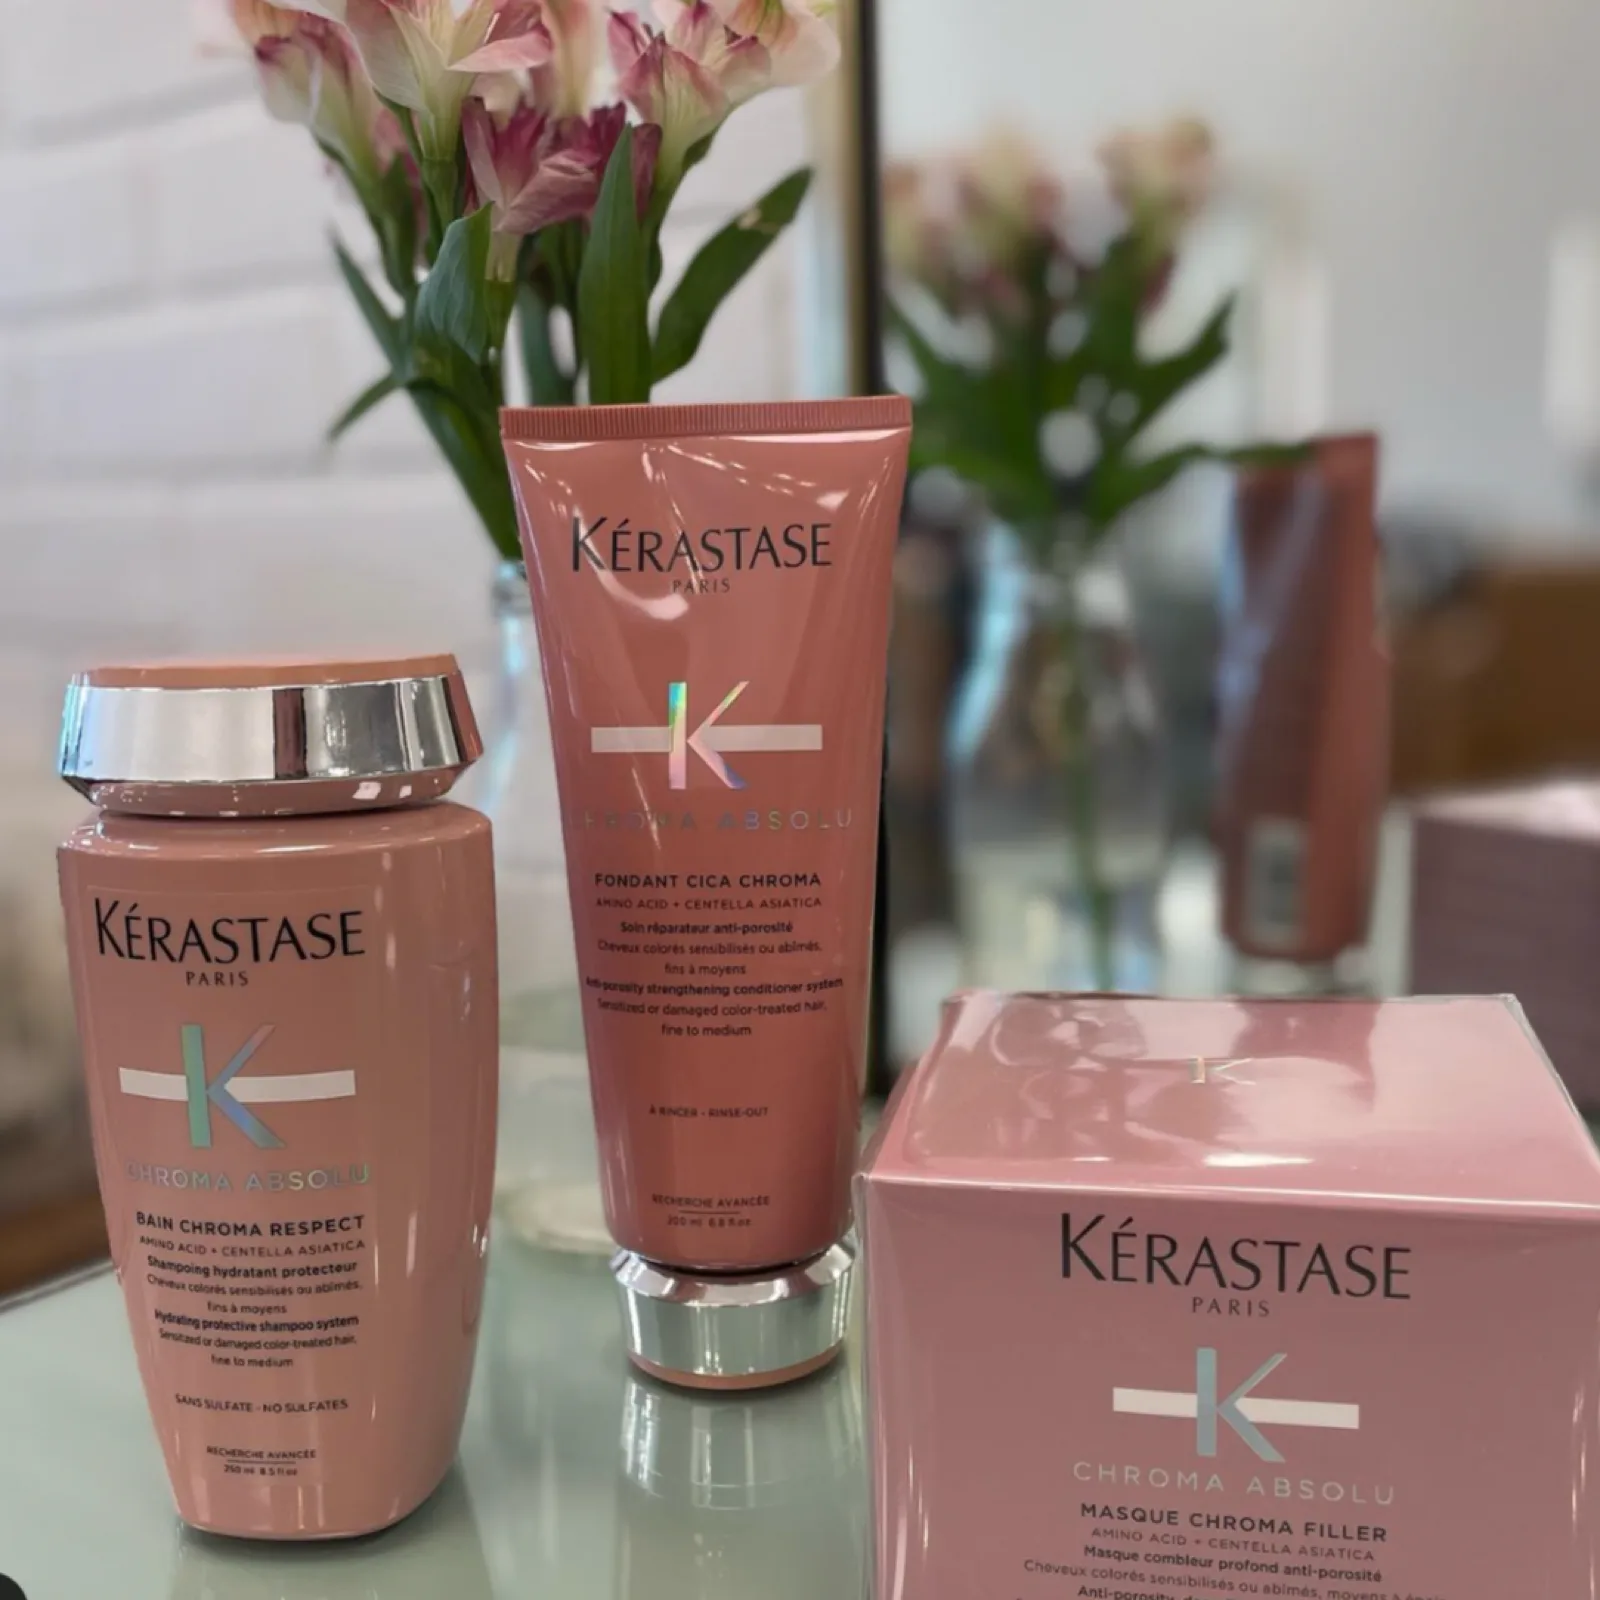
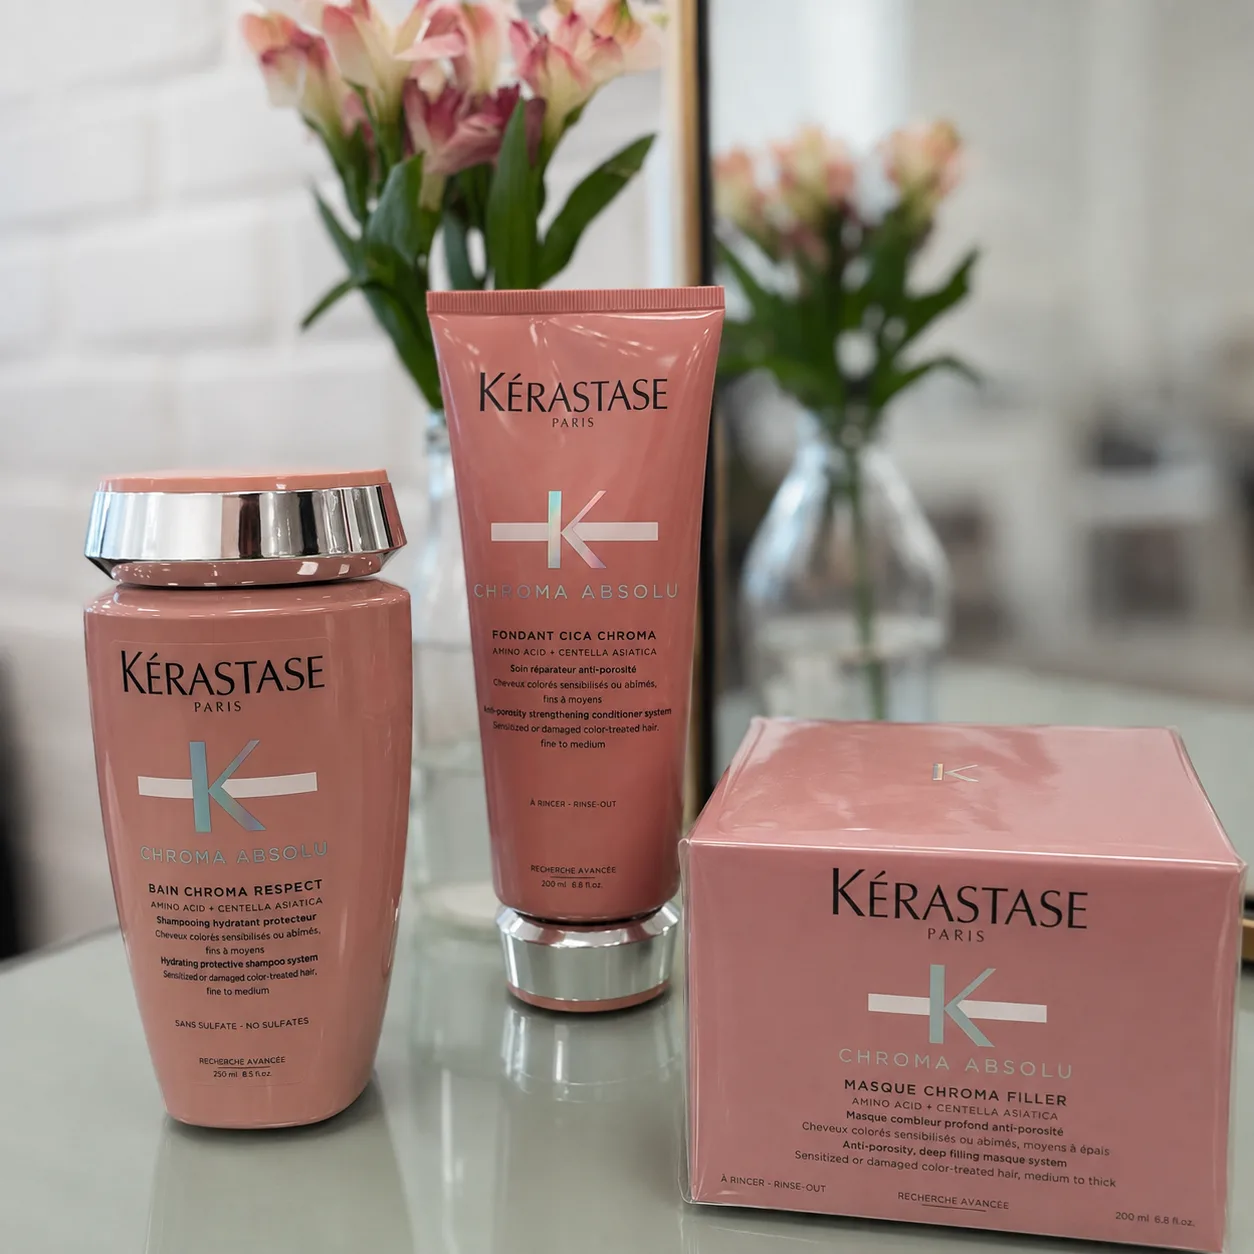
Reveal the philosophy line by line, drop the experience section, reshoot products
Three homepage changes.

The philosophy statement now reveals a line at a time as it is scrolled
to, instead of the whole block animating once on mount. Each line is its
own observed element with the trigger pulled 22% up from the bottom edge,
so the reader's scroll sets the pace rather than a fixed delay. The <br>
separators become block spans; line spacing is unchanged (81px steps
against an 80.92px line-height) and the gold italic on the last line is
preserved.

The hiding is applied by JS via data-reveal-armed rather than living in
the stylesheet, so a no-JS client or the frame before hydration renders
the statement in full rather than a blank band on the dark ground. The
observer is constructed before anything is hidden — arming first and
throwing there would strand the copy invisible with no way back — and
reduced motion skips the mechanism entirely.

Removes FirstVisitSection ("More than a salon — a Brazilian ritual"). It
was homepage-only and its T[lang].experience strings have no other
consumer; those are left in place rather than pulled from three locales.
blonde-highlights-smile.webp is now spare, noted in the gallery manifest.

Swaps the ProductSection photograph for the new Kerastase shot. Same
Chroma Absolu range, sharper and better lit, and the same square aspect
so the layout is untouched: 1254x1254 / 80KB against 1600x1600 / 84KB.
That file has no consumer besides ProductSection, so it is replaced in
place.
[…]

diff --git a/src/components/sections/PhilosophySection.tsx b/src/components/sections/PhilosophySection.tsx
@@ -1,26 +1,71 @@
-// Reveal is CSS-driven (.fade-in-up runs on mount with animation-fill-mode: both),
-// so this full-viewport statement never renders as a blank white band while JS
-// hydrates. The decorative rules grow via .philosophy__line--grow.
+'use client'
+import { useEffect, useRef } from 'react'
+
+// Each line reveals as it is scrolled to, rather than the whole block animating
+// once on mount. The hiding is applied by JS (`data-reveal-armed`) rather than
+// sitting in the stylesheet, so a no-JS client — or the frame before hydration —
+// renders the statement in full instead of a blank band on the dark ground.
 export default function PhilosophySection() {
+  const innerRef = useRef<HTMLDivElement>(null)
+
+  useEffect(() => {
+    const root = innerRef.current
+    if (!root) return
+
+    const lines = Array.from(root.querySelectorAll<HTMLElement>('[data-reveal]'))
+    if (!lines.length) return
+
+    // Nothing to arm under reduced motion — the copy just stays visible.
+    if (window.matchMedia('(prefers-reduced-motion: reduce)').matches) return
+
+    // Build the observer BEFORE hiding anything. Arming first and failing here
+    // would strand the statement invisible with no way back, so the hide is only
+    // applied once there is something guaranteed to undo it.
+    let io: IntersectionObserver
+    try {
+      io = new IntersectionObserver(
+        entries => {
+          for (const entry of entries) {
+            if (!entry.isIntersecting) continue
+            entry.target.classList.add('is-revealed')
+            io.unobserve(entry.target) // one-way: it must not re-hide on scroll back
+          }
+        },
+        // Pulled up from the bottom edge so a line commits only once it is properly
+        // in frame. That is what staggers them: the reader's scroll sets the pace,
+        // not a fixed delay.
+        { rootMargin: '0px 0px -22% 0px', threshold: 0.2 },
+      )
+    } catch {
+      return
+    }
+
+    root.setAttribute('data-reveal-armed', '')
+    lines.forEach(line => io.observe(line))
+
+    return () => {
+      io.disconnect()
+      root.removeAttribute('data-reveal-armed')
+    }
+  }, [])
+
   return (
-    <section className="philosophy" aria-label="Our Philosophy">
-      <div className="philosophy__inner">
+    <section className="philosophy" id="philosophy" aria-label="Our Philosophy">
+      <div className="philosophy__inner" ref={innerRef}>
 
         <div className="philosophy__line philosophy__line--grow" aria-hidden />
 
-        <p className="philosophy__eyebrow fade-in-up" style={{ animationDelay: '0.15s' }}>
+        <p className="philosophy__eyebrow" data-reveal>
           The Blend Philosophy
         </p>
 
-        <blockquote className="philosophy__quote fade-in-up" style={{ animationDelay: '0.25s' }}>
-          Beauty is a ritual.
-          <br />
-          Artistry is our craft.
-          <br />
-          <em>Warmth is our nature.</em>
+        <blockquote className="philosophy__quote">
+          <span className="philosophy__quote-line" data-reveal>Beauty is a ritual.</span>
+          <span className="philosophy__quote-line" data-reveal>Artistry is our craft.</span>
+          <span className="philosophy__quote-line" data-reveal><em>Warmth is our nature.</em></span>
         </blockquote>
 
-        <p className="philosophy__meta fade-in-up" style={{ animationDelay: '0.5s' }}>
+        <p className="philosophy__meta" data-reveal>
           Blend Hair Boutique · Plantation, Florida · Est. 2018
         </p>
 

diff --git a/src/app/globals.css b/src/app/globals.css
@@ -1903,6 +1903,29 @@ html[data-past-hero] body:has(.hero--film) .nav__hamburger.open span {
   font-style: italic;
   color: var(--gold);
 }
+/* Scroll-driven per-line reveal. Scoped to [data-reveal-armed], which only
+   PhilosophySection's effect sets, so this cannot leak to other sections and
+   cannot hide anything if JS never runs. */
+.philosophy__quote-line { display: block; }
+.philosophy__inner[data-reveal-armed] [data-reveal] {
+  opacity: 0;
+  transform: translateY(26px);
+  transition:
+    opacity   0.9s cubic-bezier(0.16, 1, 0.3, 1),
+    transform 0.9s cubic-bezier(0.16, 1, 0.3, 1);
+}
+.philosophy__inner[data-reveal-armed] [data-reveal].is-revealed {
+  opacity: 1;
+  transform: none;
+}
+@media (prefers-reduced-motion: reduce) {
+  .philosophy__inner[data-reveal-armed] [data-reveal] {
+    opacity: 1;
+    transform: none;
+    transition: none;
+  }
+}
+
 .philosophy__meta {
   font-size: 12px;
   letter-spacing: 0.38em;

diff --git a/src/app/page.tsx b/src/app/page.tsx
@@ -4,7 +4,6 @@ import TrustBar from '@/components/sections/TrustBar'
 import ServicesSection from '@/components/sections/ServicesSection'
 import PhilosophySection from '@/components/sections/PhilosophySection'
 import GallerySection from '@/components/sections/GallerySection'
-import FirstVisitSection from '@/components/sections/FirstVisitSection'
 import TeamSection from '@/components/sections/TeamSection'
 import ProductSection from '@/components/sections/ProductSection'
 import ReviewsSection from '@/components/sections/ReviewsSection'
@@ -34,7 +33,6 @@ export default function HomePage() {
       <ServicesSection />
       <PhilosophySection />
       <GallerySection />
-      <FirstVisitSection />
       <TeamSection />
       <ProductSection />
       <ReviewsSection />

diff --git a/src/data/gallery.ts b/src/data/gallery.ts
@@ -76,7 +76,7 @@ export const FEATURED_IDS = [
 // use them rather than through this file:
 //   bronde-balayage-back .... /balayage-plantation-fl
 //   blonde-shag-bob ......... /haircuts-plantation-fl
-//   blonde-highlights-smile . homepage, FirstVisitSection
+//   blonde-highlights-smile . unused — spare (was homepage FirstVisitSection)
 //   bronde-waves-smile ...... /about
 //   stylist-blend-wall ...... /about (hero)
 //   salon-wine-service ...... /gift-cards, /luxury-hair-salon-plantation-fl
